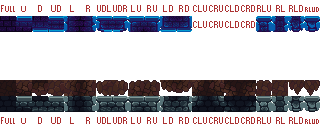
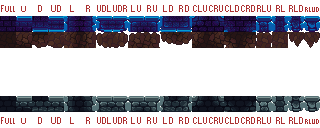
tileset + début background

Changed region(s): [[0.0, 0.125, 1.0, 0.375], [0.0, 0.625, 1.0, 0.75]]

diff --git a/README.md b/README.md
@@ -9,8 +9,7 @@ Objectif : faire un platformer dédié au speedrun dans un univers cyberpunk. Il
 
 ## TODO
 - Faire idle du perso
-- Finir de dessiner une tileset
-- Dessiner un background de ville futuriste
-- Dessiner d'autres couche du back ground pour faire du paralaxing
+- Finir de dessiner background de ville futuriste
+- Exporter BG en plusieurs couches + coder parallax
 - Faire tableau d'animation avec comme index : AnimationState animState
 - Retrouver de bonnes valeurs pour avoir un mouvement sympa 
